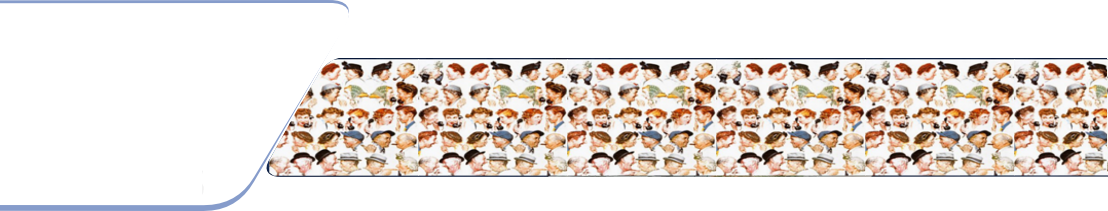
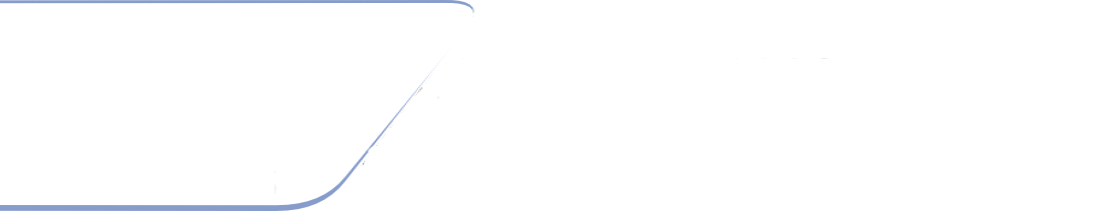
nova tela inicial

diff --git a/WebRoot/css/login.css b/WebRoot/css/login.css
@@ -1,4 +1,4 @@
-body { margin: 0; padding: 0; background-color: #000 !important; }
+body { margin: 0; padding: 0; background: url("../imagens/wallpaper.jpg") !important; }
 
 label.error { float: none; color: red; padding-left: 3px;  }
 
@@ -9,28 +9,20 @@ label.error { float: none; color: red; padding-left: 3px;  }
 #login form .input { margin-left: 60px !important; }
 #login form .clearfix > label { color: #fff; font-size: 13pt !important; }
 
-#logo {
-	background: url("../imagens/background_login.png") repeat-x scroll 0 0 transparent;
-    position: absolute; 
-    left: 1108px;
-    right: 0;
-    height: 211px;
-}
-
 #logoLogin {
-	background: url("../imagens/fuxico-login.png") no-repeat scroll 0 0 transparent;
+	background: url("../imagens/fuxico-login.png") no-repeat scroll 0 0 transparent ;
     float: left;
     height: 100%;
     width: 1110px;
+    padding-left: 30px;
 }
 
 #fuxico {
-	background: url("../imagens/fuxico.gif") no-repeat;
 	margin: 5px;
 	height: 22px;
 	width: 315px;
 }
 
-#logar { margin-left: 60px }
+#logar { margin-left: 118px }
 
-#erro { margin: -10px 0 5px 60px; height: 25px; color: white; }
+#erro { margin: 10px 0 5px 60px; height: 25px; color: red; }

diff --git a/WebRoot/css/conta.css b/WebRoot/css/conta.css
@@ -2,22 +2,27 @@ label.error { float: none; color: red; padding-left: 3px;  }
 
 #contaGeral { width: 100%; height: 100%; }
 
-#conta { height: 200px; width: 100%; margin: 14% 0 0; }
+#conta { height: 0px; width: 90%; margin: -20% 0 0; }
 .clearfix > label { color: #fff; font-size: 13pt !important; }
 
 #conta {
     position: absolute; 
-    left: 58px;
+    left: 550px;
     right: 0;
-    height: 211px;
+    height: 5px;
 }
 
 .nome {
-	width: 500px !important;
+	width: 300px !important;
 }
 
 .email {
 	width: 300px !important;
 }
 
-#erro { margin: -10px 0 5px 60px; height: 25px; color: white; }
+.campo {
+	width: 200px !important;
+}
+
+#erroConta { margin: -10px 0 5px 60px; height: 25px; color: red; }
+#ok { margin: -10px 0 5px 60px; height: 25px; color: blue; }

diff --git a/test/br/com/fa7/fuxico/controller/ContaControllerTest.java b/test/br/com/fa7/fuxico/controller/ContaControllerTest.java
@@ -39,7 +39,10 @@ public class ContaControllerTest {
 		when(usuarioDaoMock.isLoginExiste(usuario.getLogin())).thenReturn(false);
 
 		contaController.gravarConta(usuario);
-		assertEquals(0, resultMock.included().size());
+		String msgRetorno = (String) resultMock.included().get("ok");
+		
+		assertEquals(1, resultMock.included().size());
+		assertEquals("Conta do FUXIQUEIRO criada com sucesso.", msgRetorno);
 	}
 	
 	@Test
@@ -53,7 +56,7 @@ public class ContaControllerTest {
 		when(usuarioDaoMock.isLoginExiste(usuario.getLogin())).thenReturn(true);
 		contaController.gravarConta(usuario);
 		
-		String msgRetorno = (String) resultMock.included().get("erro");
+		String msgRetorno = (String) resultMock.included().get("erroConta");
 		
 		assertEquals(1, resultMock.included().size());
 		assertEquals("Login já existente. Favor inserir um novo login.", msgRetorno);
@@ -70,7 +73,7 @@ public class ContaControllerTest {
 		when(usuarioDaoMock.isLoginExiste(usuario.getLogin())).thenReturn(false);
 		contaController.gravarConta(usuario);
 		
-		String msgRetorno = (String) resultMock.included().get("erro");
+		String msgRetorno = (String) resultMock.included().get("erroConta");
 		
 		assertEquals(1, resultMock.included().size());
 		assertEquals("A Senha não pode ser igual ao login.", msgRetorno);
@@ -87,7 +90,7 @@ public class ContaControllerTest {
 		when(usuarioDaoMock.isLoginExiste(usuario.getLogin())).thenReturn(false);
 		
 		contaController.gravarConta(usuario);
-		String msgRetorno = (String) resultMock.included().get("erro");
+		String msgRetorno = (String) resultMock.included().get("erroConta");
 		
 		assertEquals(1, resultMock.included().size());
 		assertEquals("A Senha não pode ser inferior a 6 caracteres.", msgRetorno);

diff --git a/src/br/com/fa7/fuxico/controller/ContaController.java b/src/br/com/fa7/fuxico/controller/ContaController.java
@@ -19,22 +19,22 @@ public class ContaController {
 	}
 
 	@Get("/conta")
-	public void conta() {
+	public void conta(Usuario usuario) throws Exception {
+		gravarConta(usuario); 
 	}
 
 	@Post("/conta")
 	public void gravarConta(Usuario usuario) throws Exception {
 		if (usuarioDao.isLoginExiste(usuario.getLogin()))
-			result.include("erro", "Login já existente. Favor inserir um novo login.").redirectTo(ContaController.class).conta();
-
-		if (verificarSenhaNome(usuario.getLogin(), usuario.getSenha()))
-			result.include("erro", "A Senha não pode ser igual ao login.").redirectTo(ContaController.class).conta();
-
-		if (verificarTamanhoMinSenha(usuario.getSenha()))
-			result.include("erro", "A Senha não pode ser inferior a 6 caracteres.").redirectTo(ContaController.class).conta();
-
-		usuarioDao.save(usuario);
-//		result.redirectTo(LoginController.class).login();
+			result.include("erroConta", "Login já existente. Favor inserir um novo login.").redirectTo(LoginController.class).login();
+		else if (verificarSenhaNome(usuario.getLogin(), usuario.getSenha()))
+			result.include("erroConta", "A Senha não pode ser igual ao login.").redirectTo(LoginController.class).login();
+		else if (verificarTamanhoMinSenha(usuario.getSenha()))
+			result.include("erroConta", "A Senha não pode ser inferior a 6 caracteres.").redirectTo(LoginController.class).login();
+		else{
+			usuarioDao.save(usuario);
+			result.include("ok", "Conta do FUXIQUEIRO criada com sucesso.").redirectTo(LoginController.class).login();
+		}
 	}
 
 	public boolean verificarSenhaNome(String nome, String senha) {

diff --git a/src/br/com/fa7/fuxico/controller/LoginController.java b/src/br/com/fa7/fuxico/controller/LoginController.java
@@ -20,7 +20,6 @@ public class LoginController {
 
 	@Get("/login")
 	public void login() throws Exception {
-		result.redirectTo(IndexController.class).index();
 	}
 
 	@Get("/logout")
@@ -29,12 +28,12 @@ public class LoginController {
 	}
 
 	@Post("/login")
-	public void login(String nome, String senha) throws Exception {
-		Usuario usuario = usuarioDao.login(nome, senha);
+	public void login(String login, String senha) throws Exception {
+		Usuario usuario = usuarioDao.login(login, senha);
 
 		if( usuario == null ) 
-			result.include("erro", "Login ou senha inválidos.").redirectTo(this).login();
+			result.include("erro", "Login ou senha inválidos.");
 
-		result.redirectTo(IndexController.class).index();
+		result.redirectTo(FuxicarController.class).fuxicar();
 	}
 }

diff --git a/src/br/com/fa7/fuxico/controller/FuxicarController.java b/src/br/com/fa7/fuxico/controller/FuxicarController.java
@@ -2,11 +2,13 @@ package br.com.fa7.fuxico.controller;
 
 import br.com.caelum.vraptor.Get;
 import br.com.caelum.vraptor.Post;
+import br.com.caelum.vraptor.Resource;
 import br.com.caelum.vraptor.Result;
 import br.com.fa7.fuxico.dao.FuxicoDao;
 import br.com.fa7.fuxico.model.Fuxico;
 import br.com.fa7.fuxico.model.Usuario;
 
+@Resource
 public class FuxicarController {
 
 	private Result result;
@@ -17,9 +19,9 @@ public class FuxicarController {
 		this.fuxicoDao = fuxicoDao;
 	}
 	
-	@Get("/fuxicos")
+	@Get("/fuxicar")
 	public void fuxicar(){
-		result.include("fuxicos", fuxicoDao.list());
+//		result.include("fuxicos", fuxicoDao.list());
 	}
 
 	@Get("/atualizaFuxico")

diff --git a/src/br/com/fa7/fuxico/dao/impl/UsuarioDaoImpl.java b/src/br/com/fa7/fuxico/dao/impl/UsuarioDaoImpl.java
@@ -50,7 +50,7 @@ public class UsuarioDaoImpl extends GenericDaoImpl implements UsuarioDao {
 
 			criteria.setProjection(p);
 			criteria.add(Restrictions.eq("u.login", login));
-			criteria.add(Restrictions.eq("c.senha", senha));
+			criteria.add(Restrictions.eq("u.senha", senha));
 
 			criteria.setResultTransformer(Criteria.DISTINCT_ROOT_ENTITY);
 			criteria.setResultTransformer(new AliasToBeanResultTransformer(Usuario.class));
